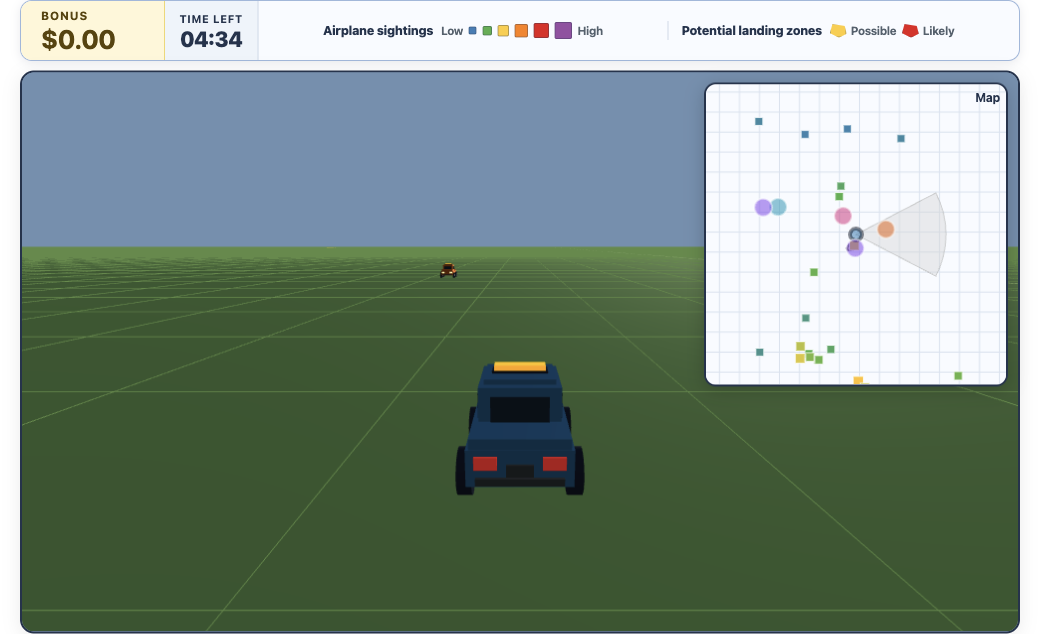
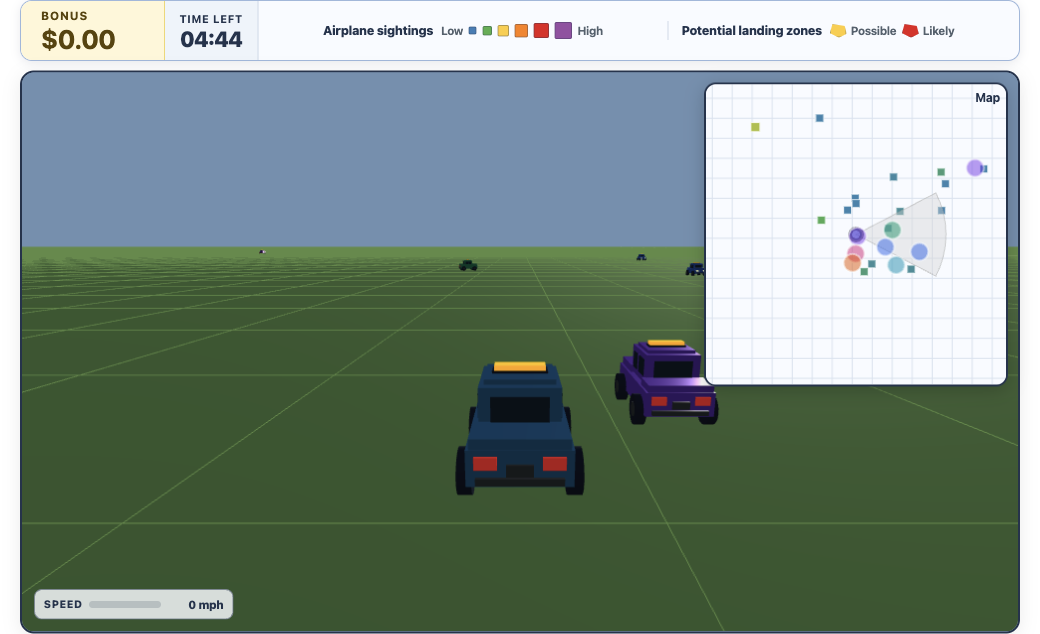
improvements

diff --git a/static/js/game_3d.js b/static/js/game_3d.js
@@ -10,8 +10,8 @@
   var ACCELERATION = 900;
   var BRAKE = 1100;
   var COAST_FRICTION = 0.92;
-  var WORLD_SCALE = 24;
-  var GRID_DIVISIONS = 320;
+  var WORLD_SCALE = 48;
+  var GRID_DIVISIONS = 640;
   var MAX_MAP_STORMS = 1200;
   var OVERVIEW_HEIGHT_RATIO = 0.54;
   var BORDER_MARGIN_MILES = 25;
@@ -206,6 +206,9 @@
       var zoomLabel = document.getElementById("zoom-label");
       var bonusPill = document.querySelector(".bonus-pill");
       var gameTimeLeft = document.getElementById("game-time-left");
+      var speedGauge = document.getElementById("speed-gauge");
+      var speedGaugeFill = document.getElementById("speed-gauge-fill");
+      var speedGaugeValue = document.getElementById("speed-gauge-value");
       var canvasWidth = Number(cfg.canvas_width || 960);
       var canvasHeight = Number(cfg.canvas_height || 540);
       var canvasSize = Number(cfg.canvas_size || 640);
@@ -611,6 +614,24 @@
           ":" +
           String(seconds).padStart(2, "0");
         gameTimeLeft.dateTime = "PT" + String(remainingSeconds) + "S";
+      }
+
+      function updateSpeedGauge() {
+        if (!speedGauge) return;
+        var maxSpeed = Number(cfg.max_player_speed || 0);
+        var speedLimitMph = Number(cfg.speed_limit_mph || 60);
+        var speedRatio = maxSpeed > 0
+          ? Math.min(1, Math.abs(Number(own.speed) || 0) / maxSpeed)
+          : 0;
+        var speedMph = Math.round(speedRatio * speedLimitMph);
+        speedGauge.setAttribute("aria-valuemax", String(speedLimitMph));
+        speedGauge.setAttribute("aria-valuenow", String(speedMph));
+        if (speedGaugeFill) {
+          speedGaugeFill.style.width = String(Math.round(speedRatio * 100)) + "%";
+        }
+        if (speedGaugeValue) {
+          speedGaugeValue.textContent = String(speedMph) + " mph";
+        }
       }
 
       function updateWaitingOverlay(readyIds) {
@@ -1908,11 +1929,13 @@
       function tick(now) {
         updateCountdown(now);
         if (!gameStarted) {
+          updateSpeedGauge();
           lastDrawAt = now;
           renderFrame(0, now);
           return;
         }
         integrateOwnPlayer(now);
+        updateSpeedGauge();
         var t = isLobby ? 0 : gameTime(now);
         if (!isLobby) {
           if (isTutorial) {

diff --git a/static/css/game.css b/static/css/game.css
@@ -337,6 +337,49 @@
   display: inline-block;
   width: min(1000px, 96vw);
 }
+.speed-gauge {
+  position: absolute;
+  bottom: 14px;
+  left: 14px;
+  z-index: 3;
+  display: grid;
+  grid-template-columns: auto 4.5rem auto;
+  align-items: center;
+  gap: 0.4rem;
+  padding: 0.35rem 0.55rem;
+  border: 1px solid rgba(34, 51, 77, 0.5);
+  border-radius: 8px;
+  background: rgba(248, 251, 255, 0.82);
+  color: #22334d;
+  font-variant-numeric: tabular-nums;
+  pointer-events: none;
+}
+.speed-gauge-label {
+  font-size: 0.66rem;
+  font-weight: 800;
+  letter-spacing: 0.05em;
+  text-transform: uppercase;
+}
+.speed-gauge-track {
+  height: 0.42rem;
+  overflow: hidden;
+  border-radius: 999px;
+  background: rgba(34, 51, 77, 0.18);
+}
+.speed-gauge-fill {
+  display: block;
+  width: 0;
+  height: 100%;
+  border-radius: inherit;
+  background: #4f8cff;
+  transition: width 80ms linear;
+}
+.speed-gauge-value {
+  min-width: 3.5rem;
+  font-size: 0.72rem;
+  font-weight: 800;
+  text-align: right;
+}
 #overview-map {
   position: absolute;
   top: 12px;

diff --git a/templates/game.html b/templates/game.html
@@ -73,6 +73,13 @@
   {% endif %}
   <div class="canvas-stage">
     <canvas id="game-canvas" width="{{ params.canvas_config.canvas_width }}" height="{{ params.canvas_config.canvas_height }}" tabindex="0" aria-label="{% if is_lobby %}3D waiting room{% elif is_tutorial %}3D driving tutorial{% else %}3D airdrop driving area{% endif %}"></canvas>
+    <div id="speed-gauge" class="speed-gauge" role="meter" aria-label="Car speed" aria-valuemin="0" aria-valuemax="60" aria-valuenow="0">
+      <span class="speed-gauge-label">Speed</span>
+      <span class="speed-gauge-track" aria-hidden="true">
+        <span id="speed-gauge-fill" class="speed-gauge-fill"></span>
+      </span>
+      <output id="speed-gauge-value" class="speed-gauge-value">0 mph</output>
+    </div>
     {% if is_tutorial %}
     <div id="tutorial-timer" class="tutorial-timer">Read: 10 s</div>
     {% endif %}

diff --git a/static/js/game_tutorial.js b/static/js/game_tutorial.js
@@ -17,7 +17,7 @@
     },
     airplane_sighting: {
       title: "Drive to an airplane sighting",
-      instruction: "Colored squares on the overview map are airplane sightings. The scale below runs from low to high confidence; higher-confidence sightings may help you locate an airdrop. Follow the arrow and drive to the highlighted square.",
+      instruction: "Colored squares on the overview map are airplane sightings. The scale below runs from low to high confidence. Follow the arrow and drive to the highlighted square.",
     },
     landing_zone_medium: {
       title: "Drive to a possible landing zone",

diff --git a/experiment.py b/experiment.py
@@ -45,7 +45,7 @@ def _introduction_page() -> InfoPage:
     with content:
         tags.h2("Airdrop collection game")
         tags.p("You will navigate a map and collect airdrops.")
-        tags.p("Each airdrop you collect adds $0.10.")
+        tags.p("Each airdrop you collect gives you $0.10.")
         tags.p("You will receive hints to help you locate incoming airdrops.")
         tags.p(condition_paragraph)
         tags.p("Click Next to take the tutorial.")
